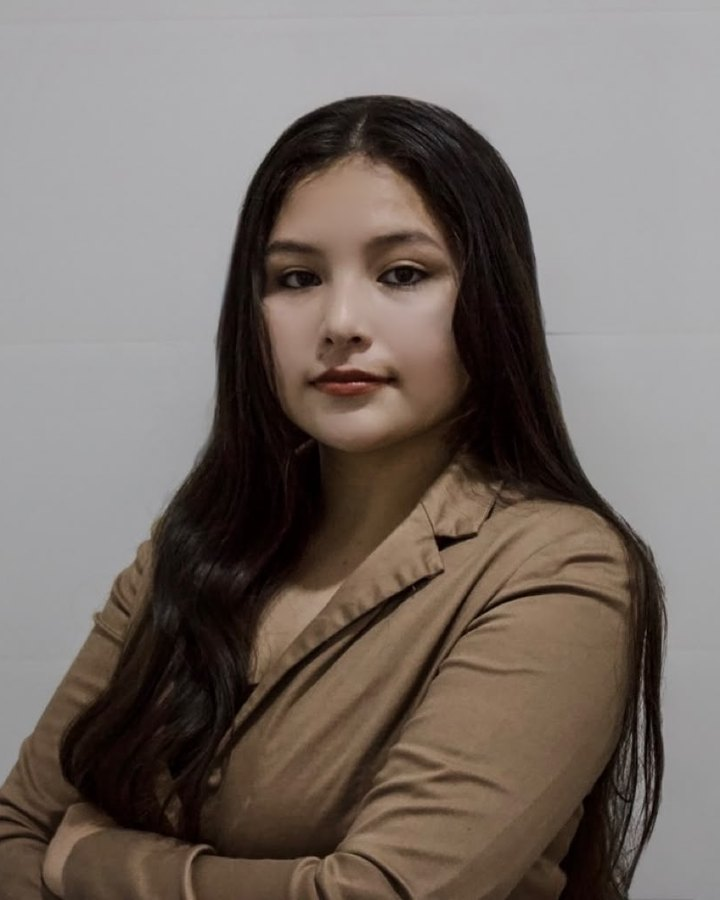
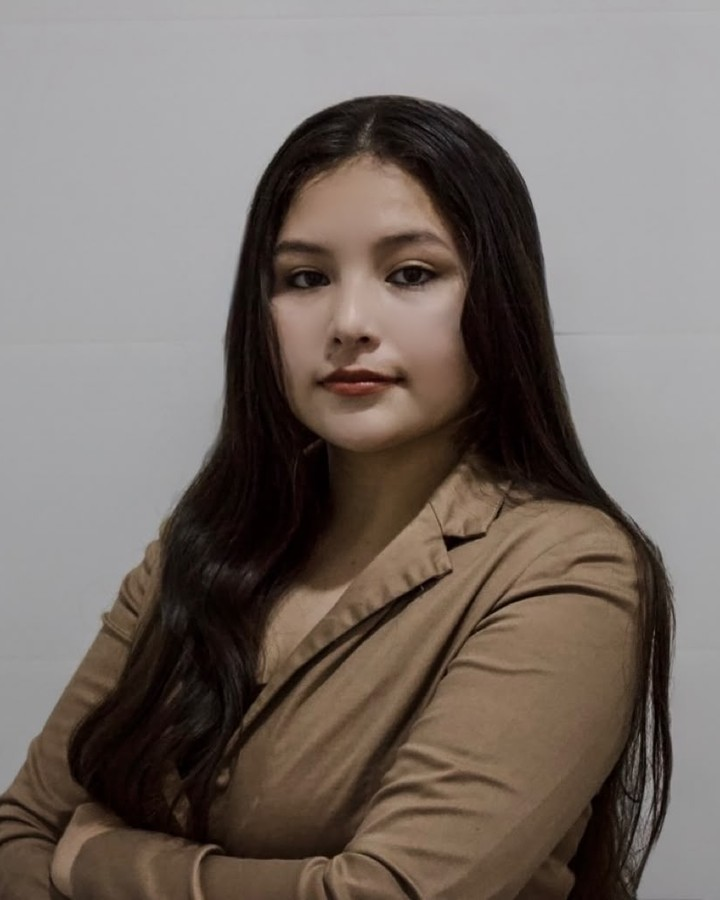
Add Cameroon board member + 3 student ambassadors; Ruchira LinkedIn

diff --git a/lib/people.ts b/lib/people.ts
@@ -26,6 +26,7 @@ export const advisoryBoard: Person[] = [
     country: 'Sri Lanka',
     img: '/images/people/ruchira-palliyaguruge.jpg',
     bio: 'An internationally respected cricket leader, former first-class cricketer, and ICC International Panel umpire, Ruchira has officiated more than 100 One Day Internationals, Test matches, and ICC World Cup competitions. He holds a Master of Science in Performance Enhancement in Sports Officiating from Edinburgh Napier University. He champions sport as a platform for developing character, resilience, and ethical leadership in young people worldwide.',
+    linkedin: 'https://www.linkedin.com/in/ruchira-palliyaguruge-b7881b147/',
   },
   {
     name: 'James J. Ojo',
@@ -59,6 +60,14 @@ export const advisoryBoard: Person[] = [
     bio: 'A three-time Top 100 Thought Leader (Thinkers360), Neeraja moved from a 25-year career in IT to become a champion of leadership development and gender advocacy. She transforms mindsets through mentoring, coaching, and workshops — helping women move beyond impostor syndrome, perfectionism, and self-doubt to lead with confidence.',
     linkedin: 'https://www.linkedin.com/in/neeraja-ganesh/',
   },
+  {
+    name: 'Ngeijung Prisca Kuwong',
+    role: 'Finance Professional & Community Development Advocate',
+    country: 'Cameroon',
+    img: '/images/people/ngeijung-kuwong.jpg',
+    bio: 'A finance professional, entrepreneur, and trainer from Cameroon, Prisca equips women and young people with practical financial, entrepreneurial, and digital skills that create sustainable livelihoods. Founder of several impact-driven initiatives, she champions financial literacy, STEM, and women’s empowerment — building partnerships that expand access to education and leadership across Africa.',
+    linkedin: 'https://www.linkedin.com/in/ngeijung-prisca/',
+  },
 ];
 
 /** EnnobleRise Global Trust™ Ambassadors — Youth · Educators · Women */
@@ -69,8 +78,35 @@ export const ambassadors: Ambassador[] = [
     role: 'Youth Ennoblement Lead',
     country: 'Belize',
     img: '/images/people/rhojani-manzanero.jpg',
-    bio: 'A Marketing and Media Communication student at Sacred Heart College and an aspiring entrepreneur building an AI-powered media startup, Rhojani serves as Youth Ennoblement Lead for Belize. She champions youth leadership, personal growth, and community engagement — representing a new generation of purpose-driven innovators who believe technology, creativity, and human values build stronger communities.',
+    bio: 'A high-school graduate pursuing a Marketing and Media Communication degree in Belize, Rhojani is an aspiring entrepreneur building an AI-powered media marketing startup. As Youth Ennoblement Lead for Belize, she champions youth leadership, personal growth, and community engagement — a new generation of innovators who believe technology, creativity, and human values build stronger communities.',
     linkedin: 'https://www.linkedin.com/in/rhojani-manzanero-88461740a/',
+  },
+  {
+    category: 'Youth',
+    name: 'Stuti Sahoo',
+    role: 'Law Student · Gender Equality Advocate',
+    country: 'India',
+    img: '/images/people/stuti-sahoo.jpg',
+    bio: 'A B.A. LL.B. student at ASBM School of Law, Stuti is committed to law, justice, and social impact — advocating for gender equality and the empowerment of women. Guided by integrity, empathy, and excellence, she aspires to a legal career that upholds justice and creates a lasting, positive impact on individuals and communities.',
+    linkedin: 'https://www.linkedin.com/in/stuti-sahoo-b4a069284/',
+  },
+  {
+    category: 'Youth',
+    name: 'Sanskarsri SS Mishra',
+    role: 'Youth Leadership · Climate Action',
+    country: 'India',
+    img: '/images/people/sanskar-mishra.jpg',
+    bio: 'A law student at ASBM University, Bhubaneswar, Sanskar serves as Impact Officer for the Global Shapers Bhubaneswar Hub and volunteers with the Bakul Foundation and UNICEF Odisha’s Youth4Water Plus. He champions climate action, inclusive leadership, and youth-led governance to build a more sustainable and equitable future.',
+    linkedin: 'https://www.linkedin.com/in/sanskarsri-ss-mishra-b58057316/',
+  },
+  {
+    category: 'Youth',
+    name: 'Fabrice Tyler Dolcé',
+    role: 'Youth Leadership · Financial Empowerment',
+    country: 'Haiti',
+    img: '/images/people/fabrice-dolce.jpg',
+    bio: 'Student Ambassador for Haiti and a university student fluent in French, Creole, Spanish, and English, Fabrice champions youth leadership, entrepreneurship, and financial empowerment. He works to build a generation of confident, financially resilient young leaders who create opportunities, uplift others, and lead with integrity.',
+    linkedin: 'https://www.linkedin.com/in/fabrice-tyler-dolc%C3%A9-a138aa2ba/',
   },
   {
     category: 'Educator',
